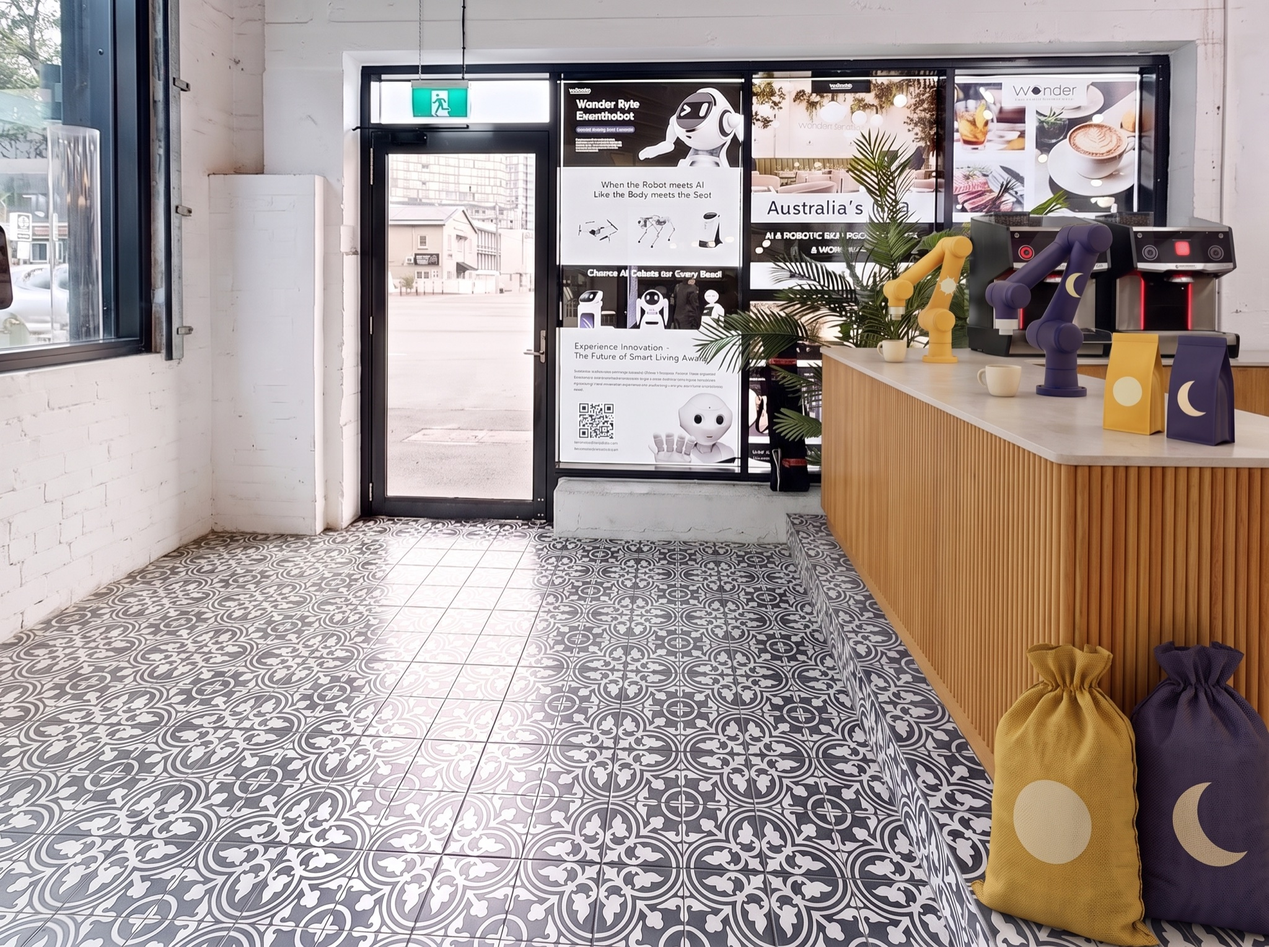
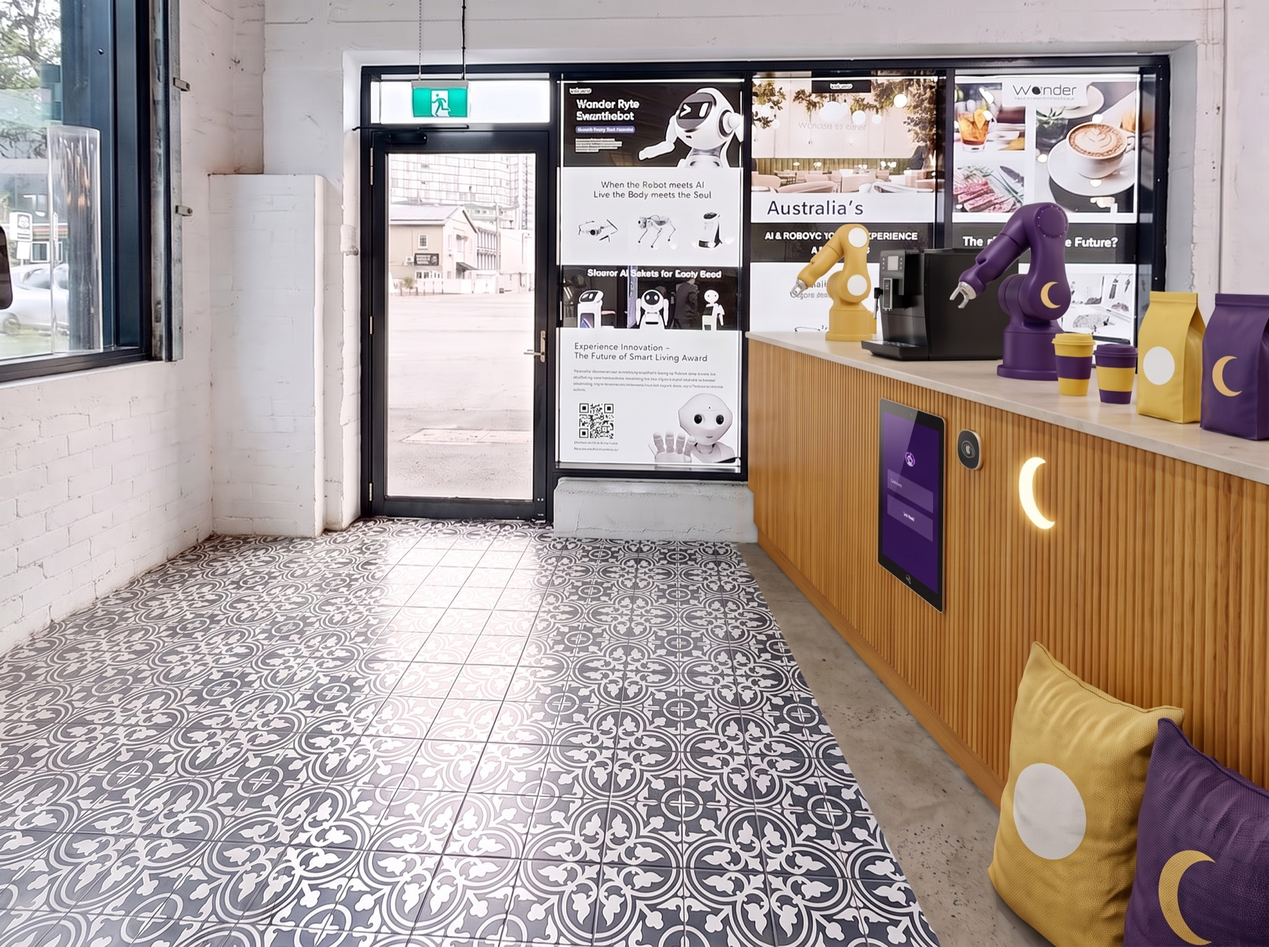
Coffee page: finished venue plates only, and the cocktail machine
Jesse: "only use the colour-finished coffee machines, these are not
complete", and "add a cocktail machine section".

The two entry plates with the silver arm and the factory-black machine
are out; in their place the finished concept, the Sol arm and the Luna
arm either side of the machine, the crescent lit, stools, cups, bags
and cushions, from the door and along the counter. The T Standard
bartender gets its own section on the coffee page again, with the bar
in Luna, pointing to its page and its Buy.

diff --git a/src/pages/coffee-landing.html b/src/pages/coffee-landing.html
@@ -59,12 +59,12 @@
         <p>This is the job: the machine, the bar it sits in, the room it sits in, and the brand across all three.</p>
       </div>
       <figure>
-        <img src="{{root}}img/coffee/venue-01-bar-in-room.jpg" alt="The Wonder Bean bar in the entry of 365 St Pauls Terrace: slatted timber counter on the encaustic tile, the silver arm, the Sol and Luna bags and sacks, green banquette behind" loading="lazy" width="2048" height="1529">
+        <img src="{{root}}img/coffee/venue-01-bar-in-room.jpg" alt="The Wonder Bean bar in the entry of 365 St Pauls Terrace: slatted timber counter along the wall, a Sol yellow arm and a Luna purple arm either side of the coffee machine, the crescent lit on the front, the screen and tap, Sol and Luna stools, cups, bags and cushions" loading="lazy" width="2048" height="1529">
         <figcaption class="label"><span>The bar in the room, by the street door</span><span>Concept, from the capture</span></figcaption>
       </figure>
       <div class="pair">
         <figure>
-          <img src="{{root}}img/coffee/venue-02-entry.jpg" alt="The entry vestibule with the bar along the right wall, a yellow arm and a purple arm, the door to the street" loading="lazy">
+          <img src="{{root}}img/coffee/venue-02-entry.jpg" alt="The entry vestibule from the door: the bar along the right wall, the Sol arm and the Luna arm, the crescent lit, cups and bags on the counter, cushions on the floor" loading="lazy">
           <figcaption class="label"><span>From the door</span><span>Concept, from the capture</span></figcaption>
         </figure>
         <figure>
@@ -82,6 +82,15 @@
           <figcaption class="label"><span>The cups</span><span>Brand, designed here</span></figcaption>
         </figure>
       </div>
+      <h2>The cocktail machine</h2>
+      <div class="txt">
+        <p>The same bar at night. The T Standard robot bartender, a Dobot arm under a rack of your bottles, an ice maker, three syrup channels. Ours pours at 365 St Pauls Terrace six days a week. From $39,000, on its own page.</p>
+      </div>
+      <figure>
+        <img src="{{root}}img/offer/cocktail-wonderbean.jpg" alt="The robot bar at 365 St Pauls Terrace reskinned in Wonder Bean Luna: night-purple counter with an amber lit lip and a cream crescent, six purple crescent cups lined up, the cobot pouring" loading="lazy" width="2048" height="1360">
+        <figcaption class="label"><span>The robot bar in Luna</span><span>Concept, the same machine in a brand</span></figcaption>
+      </figure>
+      <div class="txt"><p><a class="link" href="{{root}}robot-cocktail-machines/">Robot cocktail machines</a> &middot; <a class="link" href="{{root}}quote/?pick=bar">Buy the T Standard, $39,000</a></p></div>
       <h2>The Wonder Bean bar</h2>
       <div class="txt">
         <p>Our own coffee bar, drawn for the studio. Two arms on a slatted timber counter, the screen and the tap out front, everything else behind the doors: water, filter, pump, the machine on a slide-out shelf, cups, beans, the controller.</p>

diff --git a/robot-coffee-machines/index.html b/robot-coffee-machines/index.html
@@ -917,12 +917,12 @@
         <p>This is the job: the machine, the bar it sits in, the room it sits in, and the brand across all three.</p>
       </div>
       <figure>
-        <img src="../img/coffee/venue-01-bar-in-room.jpg" alt="The Wonder Bean bar in the entry of 365 St Pauls Terrace: slatted timber counter on the encaustic tile, the silver arm, the Sol and Luna bags and sacks, green banquette behind" loading="lazy" width="2048" height="1529">
+        <img src="../img/coffee/venue-01-bar-in-room.jpg" alt="The Wonder Bean bar in the entry of 365 St Pauls Terrace: slatted timber counter along the wall, a Sol yellow arm and a Luna purple arm either side of the coffee machine, the crescent lit on the front, the screen and tap, Sol and Luna stools, cups, bags and cushions" loading="lazy" width="2048" height="1529">
         <figcaption class="label"><span>The bar in the room, by the street door</span><span>Concept, from the capture</span></figcaption>
       </figure>
       <div class="pair">
         <figure>
-          <img src="../img/coffee/venue-02-entry.jpg" alt="The entry vestibule with the bar along the right wall, a yellow arm and a purple arm, the door to the street" loading="lazy">
+          <img src="../img/coffee/venue-02-entry.jpg" alt="The entry vestibule from the door: the bar along the right wall, the Sol arm and the Luna arm, the crescent lit, cups and bags on the counter, cushions on the floor" loading="lazy">
           <figcaption class="label"><span>From the door</span><span>Concept, from the capture</span></figcaption>
         </figure>
         <figure>
@@ -940,6 +940,15 @@
           <figcaption class="label"><span>The cups</span><span>Brand, designed here</span></figcaption>
         </figure>
       </div>
+      <h2>The cocktail machine</h2>
+      <div class="txt">
+        <p>The same bar at night. The T Standard robot bartender, a Dobot arm under a rack of your bottles, an ice maker, three syrup channels. Ours pours at 365 St Pauls Terrace six days a week. From $39,000, on its own page.</p>
+      </div>
+      <figure>
+        <img src="../img/offer/cocktail-wonderbean.jpg" alt="The robot bar at 365 St Pauls Terrace reskinned in Wonder Bean Luna: night-purple counter with an amber lit lip and a cream crescent, six purple crescent cups lined up, the cobot pouring" loading="lazy" width="2048" height="1360">
+        <figcaption class="label"><span>The robot bar in Luna</span><span>Concept, the same machine in a brand</span></figcaption>
+      </figure>
+      <div class="txt"><p><a class="link" href="../robot-cocktail-machines/">Robot cocktail machines</a> &middot; <a class="link" href="../quote/?pick=bar">Buy the T Standard, $39,000</a></p></div>
       <h2>The Wonder Bean bar</h2>
       <div class="txt">
         <p>Our own coffee bar, drawn for the studio. Two arms on a slatted timber counter, the screen and the tap out front, everything else behind the doors: water, filter, pump, the machine on a slide-out shelf, cups, beans, the controller.</p>
